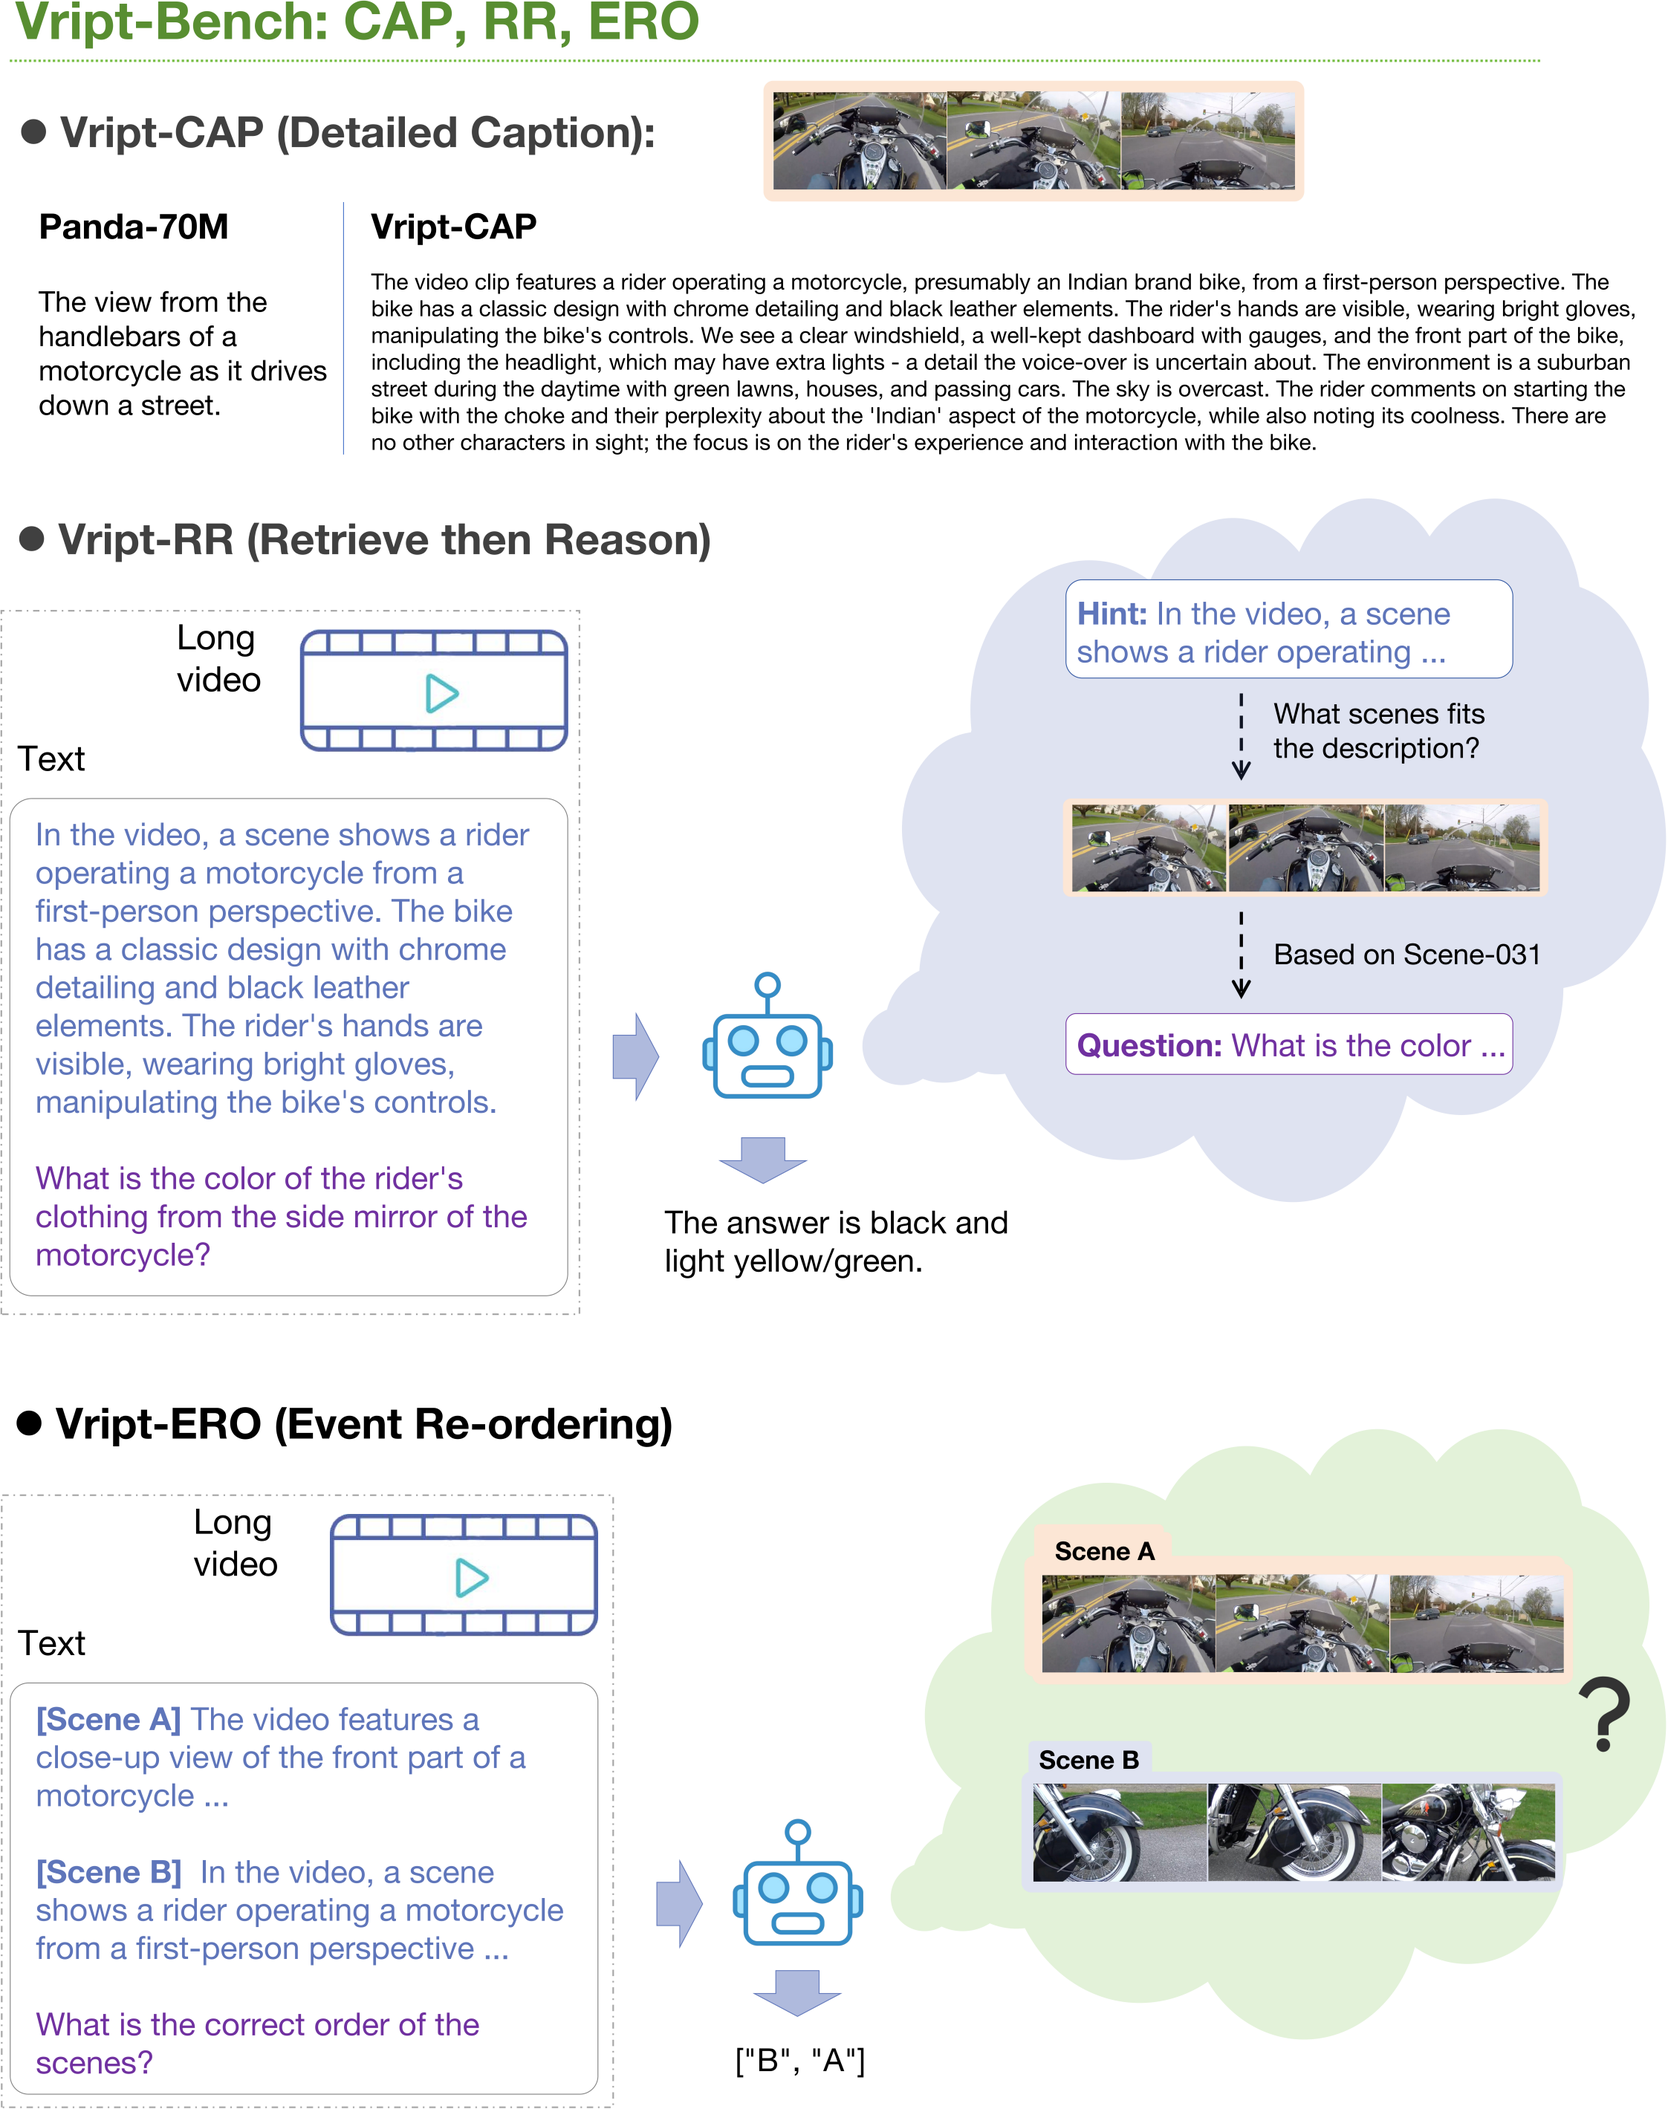
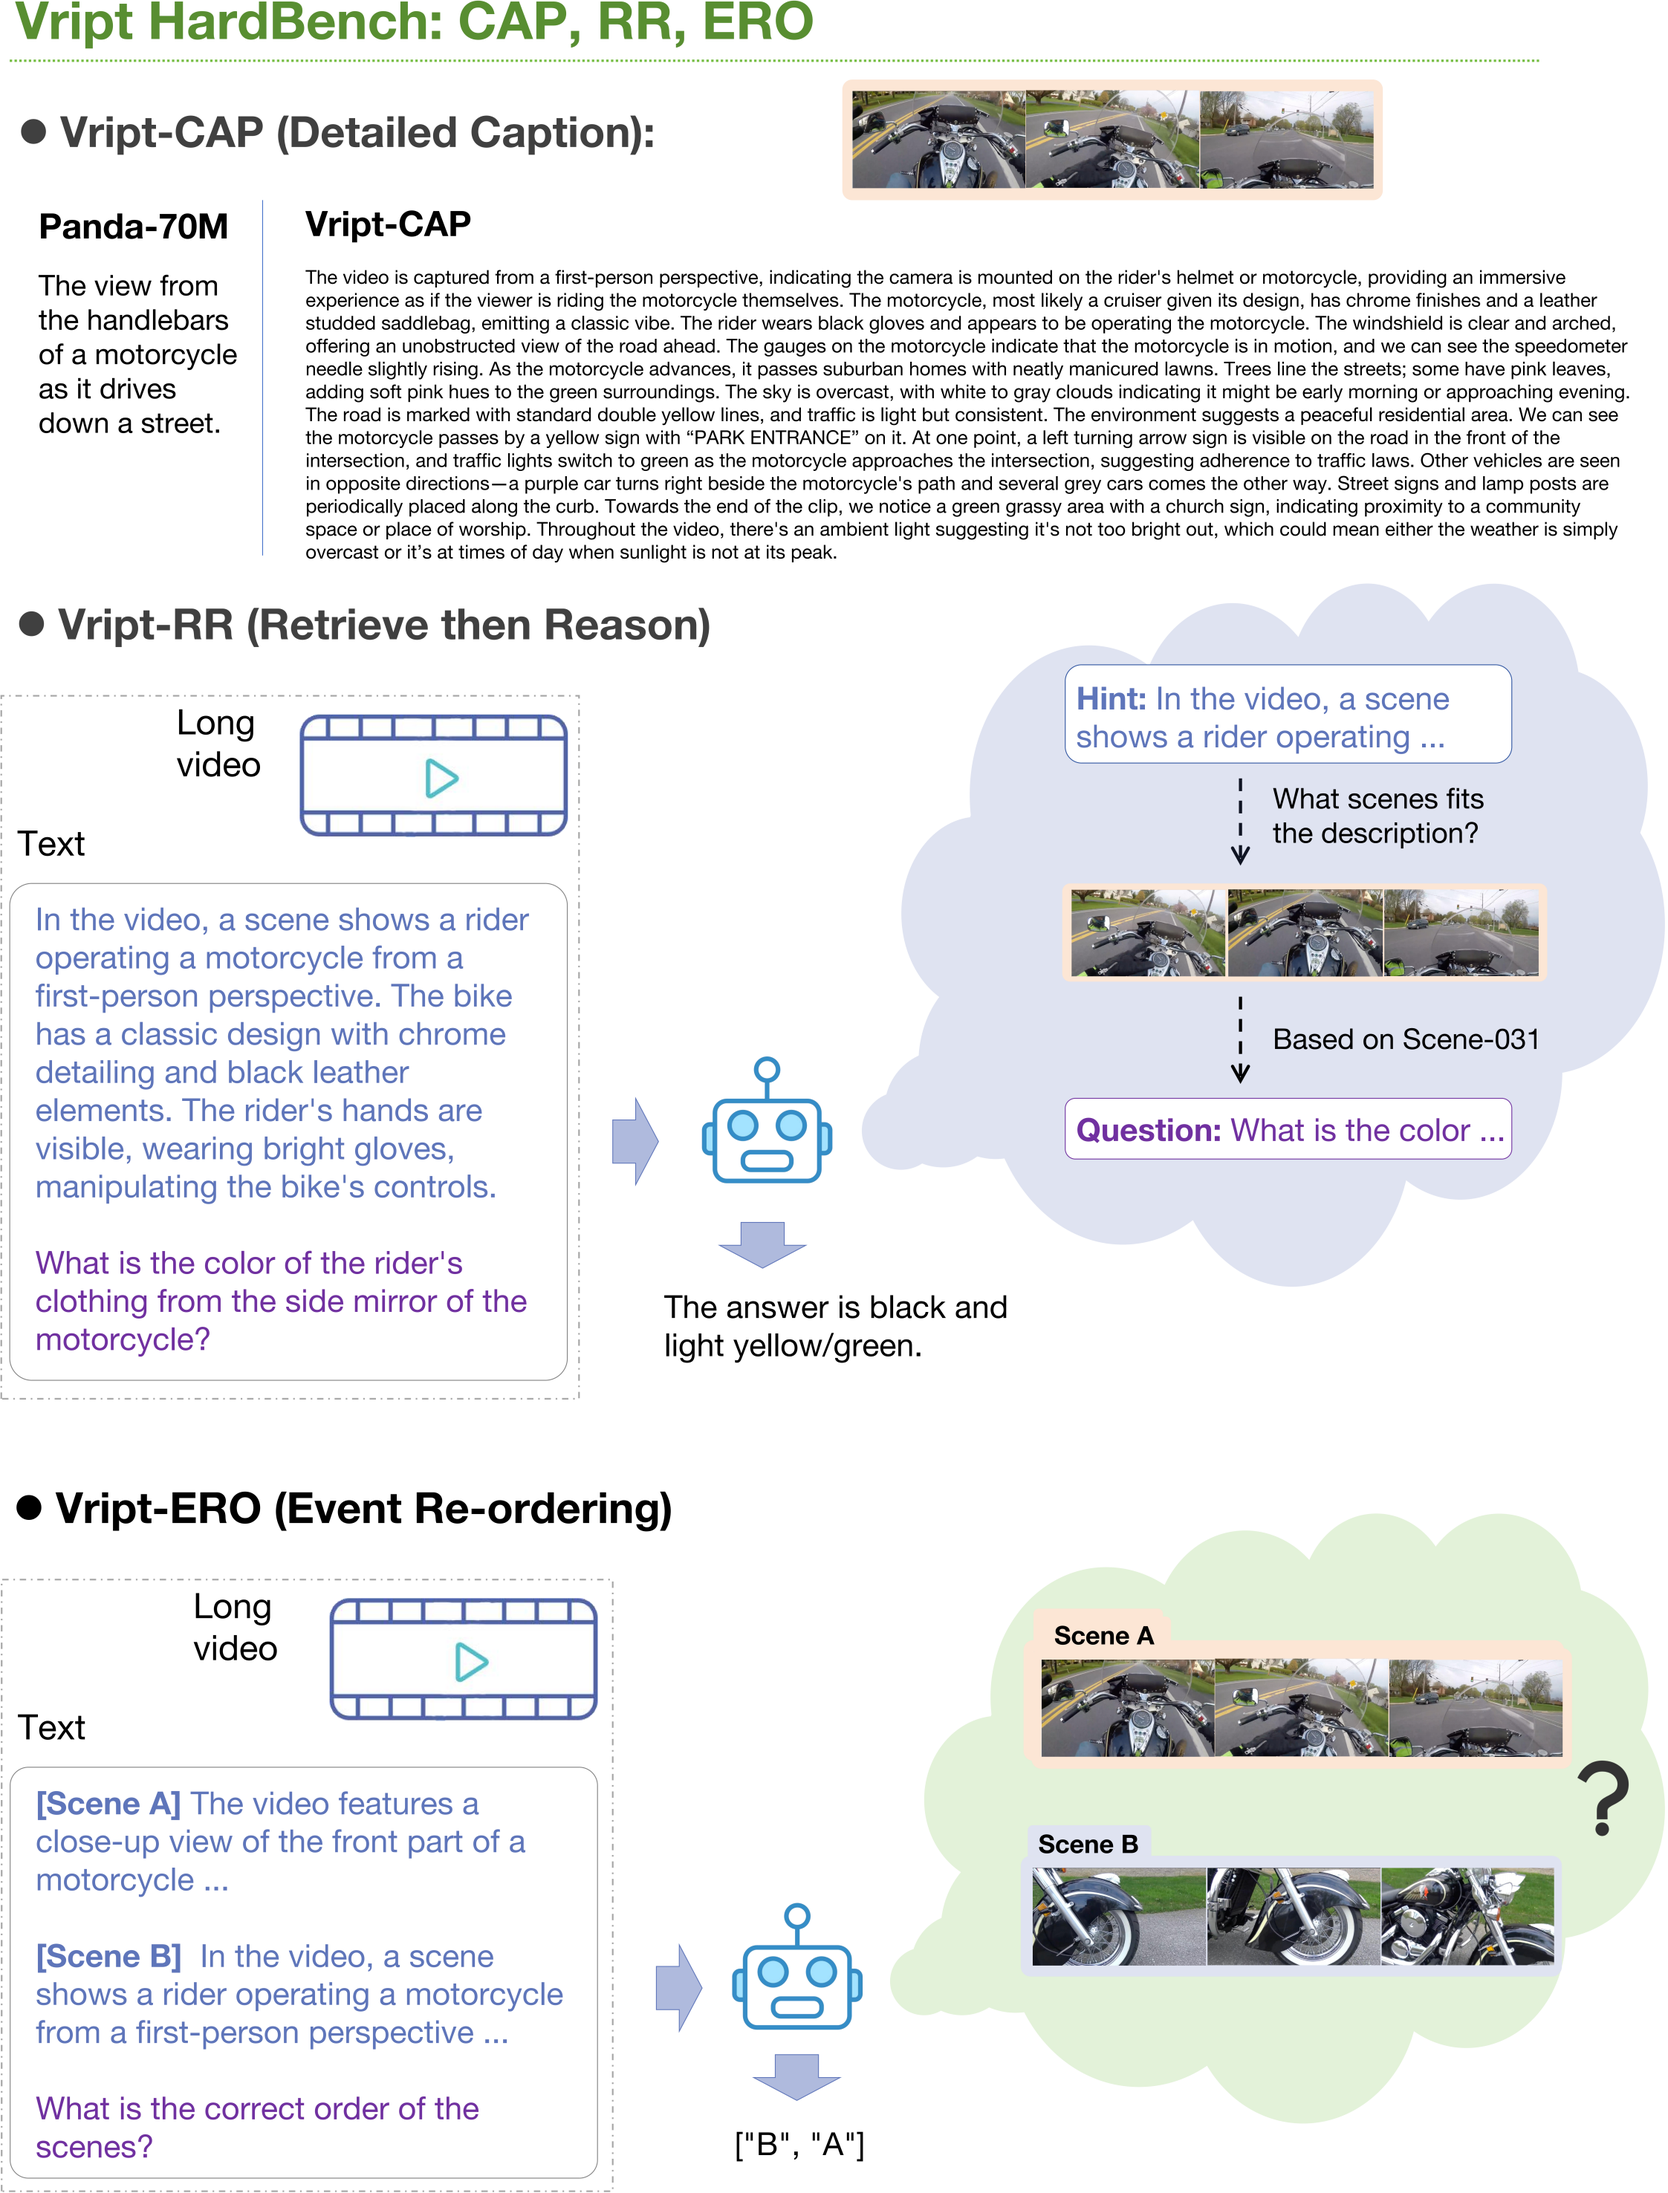
update Vript-CAP

diff --git a/README.md b/README.md
@@ -15,9 +15,9 @@ There are some takeaways from the Vript dataset:
 4) **High-resolution & Diverse Aspect Ratios & Open Domain**: The Vript dataset contains both long videos from YouTube and short videos from YouTube Shorts and TikTok. The raw videos vary in 720p to 2K resolution.
 
 
-In addition, we propose **Vript-Bench**, a new benchmark consisting of three challenging video understanding tasks **(which are carefully double-checked by humans)**: 
+In addition, we propose **Vript HardBench**, a new benchmark consisting of three challenging video understanding tasks **that much harder than the existing video understanding benchmarks.**:
 
-1) **Vript-CAP (Caption)**: A benchmark with detailed captions rather than short captions. 
+1) **Vript-CAP (Caption)**: A benchmark with very detailed captions rather than short captions. Each caption has ~250 words on average, which is longer than Vript train captions and **25x** longer than the existing video captioning benchmarks. e.g., MSVD, MSR-VTT. Every details in Vript-CAP are carefully checked.
 
 2) **Vript-RR (Retrieve then Reason)**: A video reasoning benchmark by first giving a detailed description of the scene as a hint and then asking questions about details in the scene. 
 
@@ -36,14 +36,16 @@ $\quad$
 </p>
 
 ## Updates
-- 🔥 **2024-04-15**: We release the **Vript** dataset and **Vript-Bench** benchmark. Both videos and annotations are **directly** available on [🤗](https://huggingface.co/collections/Mutonix/vript-datasets-661a80dc080a813b6ea95b50). We offer both untrimmed videos and video clips in 720p (higher resolutions may be available later).
+- 🔥 **2024-05-06**: We re-annotate the Vript-CAP for a more detaild captioning benchmark. In Vript-CAP, we describe the scene twice as detailed as possible with ~250 words, which is **20x** longer than the existing video captioning benchmarks. e.g., MSVD, MSR-VTT. 
 
-- [WIP] We are working on the Vriptor, a better and lightweight model for video captioning based on Vript dataset, which will be released soon.
+- 🔥 **2024-04-15**: We release the **Vript** dataset and **Vript HardBench** benchmark. Both videos and annotations are **directly** available on [🤗](https://huggingface.co/collections/Mutonix/vript-datasets-661a80dc080a813b6ea95b50). We offer both untrimmed videos and video clips in 720p (higher resolutions may be available later).
 
-- [WIP] We are evaluating various models on the Vript-Bench benchmark and will release the leaderboard soon.
+- [WIP] We have finished training of Vriptor, a video captioning model on the Vript dataset with superior performance. The model will be released soon.
+
+- [WIP] We are evaluating various models on the Vript HardBench benchmark and will release the leaderboard soon.
 
 ## Getting Started
-You can download the [Vript dataset](https://huggingface.co/datasets/Mutonix/Vript/) and Vript-Bench validation set ([Vript-CAP](https://huggingface.co/datasets/Mutonix/Vript-CAP/), [Vript-RR](https://huggingface.co/datasets/Mutonix/Vript-RR/), [Vript-ERO](https://huggingface.co/datasets/Mutonix/Vript-ERO/)) on the Huggingface.
+You can download the [Vript dataset](https://huggingface.co/datasets/Mutonix/Vript/) and Vript HardBench validation set ([HardCAP](https://huggingface.co/datasets/Mutonix/Vript-CAP/), [HardRR](https://huggingface.co/datasets/Mutonix/Vript-RR/), [HardERO](https://huggingface.co/datasets/Mutonix/Vript-ERO/)) on the Huggingface.
 **By downloading these datasets, you agree to the terms of the [License](#License).**
 
 The captions of the videos in the Vript dataset are structured as follows:
@@ -85,7 +87,7 @@ The captions of the videos in the Vript dataset are structured as follows:
 
 More details about the dataset and benchmark can be found in the [DATA.md](DATA.md).
 
-## How to use Vript-Bench
+## How to use Vript HardBench
 
 ### Vript-RR (Retrieve then Reason)
 <p align="center">
@@ -193,7 +195,7 @@ By downloading or using the data or model, you understand, acknowledge, and agre
 
 - ACADEMIC USE ONLY
 
-Any content from Vript/Vript-Bench dataset and Vriptor model is available for academic research purposes only. You agree not to reproduce, duplicate, copy, trade, or exploit for any commercial purposes
+Any content from Vript/Vript HardBench dataset and Vriptor model is available for academic research purposes only. You agree not to reproduce, duplicate, copy, trade, or exploit for any commercial purposes
 
 - NO DISTRIBUTION
 
@@ -205,7 +207,7 @@ In no event shall we be liable for any other damages whatsoever arising out of t
 
 - DISCLAIMER
 
-You are solely responsible for legal liability arising from your improper use of the dataset content. We reserve the right to terminate your access to the dataset at any time. You should delete the Vript/Vript-Bench dataset or Vriptor model if required.
+You are solely responsible for legal liability arising from your improper use of the dataset content. We reserve the right to terminate your access to the dataset at any time. You should delete the Vript/Vript HardBench dataset or Vriptor model if required.
 
 This license is modified from the [HD-VG-100M](https://github.com/daooshee/HD-VG-130M) license.
 

diff --git a/DATA.md b/DATA.md
@@ -120,11 +120,11 @@ Vript-CAP/
 ```
 Vript-RR/
 |
-├── RR_videos.zip
+├── RR_videos/
 │   ├── -_MRAAhEKio.mp4
 │   └── ...
 │
-├── RR_scenes.zip
+├── RR_scenes/
 │   ├── -_MRAAhEKio-Scene-010.mp4
 │   └── ...
 │
@@ -140,28 +140,17 @@ Vript-RR/
 ``` 
 Vript-ERO/
 |
-├── ERO-2_annotations.jsonl
+├── ERO_annotations.jsonl
 |
-├── ERO-4_annotations.jsonl
-|
-├── ERO_scenes.zip
+├── ERO_scenes/
 │   ├── -_MRAAhEKio-Scene-010.mp4
 │   └── ...
 │
-├── ERO-2/
-│   ├── ERO-2_videos.zip
-│   │   ├── -_MRAAhEKio.mp4
-│   │   └── ...
-│   
-└── ERO-4/
-    ├── ERO-4_videos.zip
-        └── ...
+└── ERO_videos/
+    ├── -_MRAAhEKio-Scene-010.mp4
+    └── ...
+
 ```
-- `ERO-2/` and `ERO-4/`: The annotations of the Vript-ERO benchmark. The `ERO-2_annotations.jsonl` and `ERO-4_annotations.jsonl` files contain all the annotations in the Vript-ERO benchmark, which can be previewed in the [Vript-ERO](https://huggingface.co/datasets/Mutonix/Vript-ERO) on Huggingface.
+- `ERO/`: The annotations of the Vript-ERO benchmark. The `ERO_annotations.jsonl` files contains all the annotations in the Vript-ERO benchmark, which can be previewed in the [Vript-ERO](https://huggingface.co/datasets/Mutonix/Vript-ERO) on Huggingface.
 
-
-    **ERO-2**: There are two scenes in each video, and the model needs to predict the correct temporal order of the scenes. And the ERO-2 videos are trimmed to be shorter than original videos. (It means the input lengths are shorter)
-
-    **ERO-4**: There are four scenes in each video, and the model needs to predict the correct temporal order of the scenes. And the ERO-4 videos are untrimmed. (It means the input length are much longer)
-
-- `ERO_scenes.zip`: The trimmed video clips in the Vript-ERO benchmark, which correspond to scenes in the `ERO-2` and `ERO-4` annotations.
+- `ERO_scenes`: The trimmed video clips in the Vript-ERO benchmark, which correspond to scenes in the `ERO` annotations.
